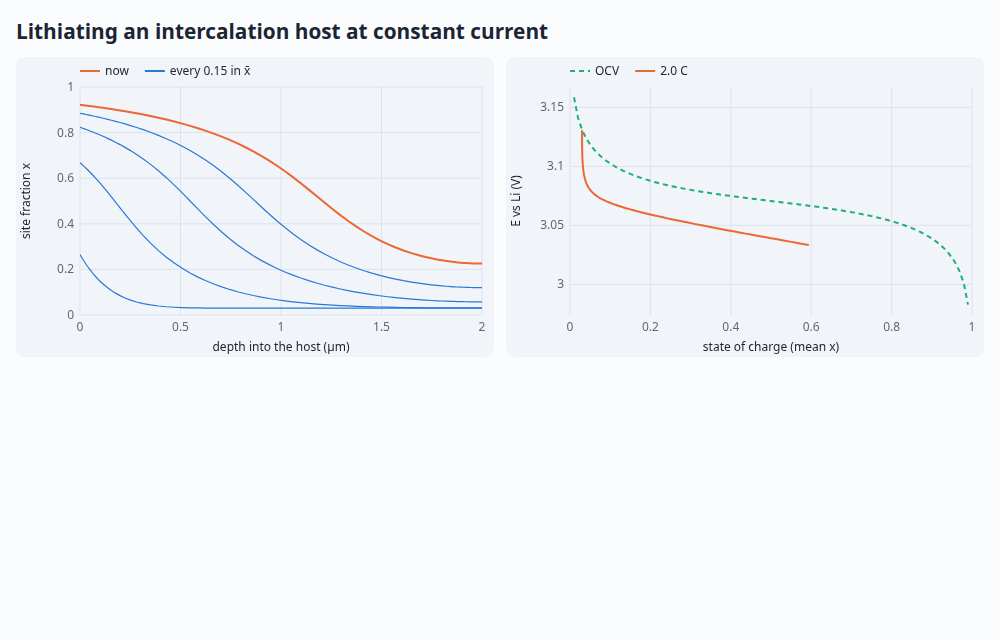
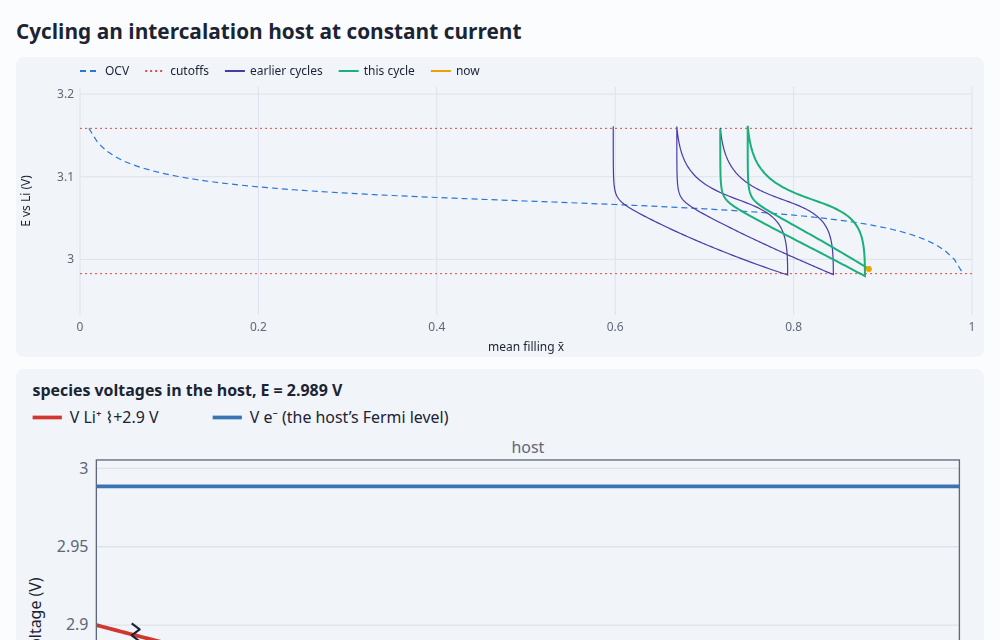
Intercalation demo: galvanostatic cycling between cutoffs that runs on, the settling loop, an ESBD view of Li⁺ and e⁻
Slices adapt to the voltage's rate, so a cutoff is caught within a few mV even where the
surface runs dry.

diff --git a/demos/insertion.html b/demos/insertion.html
@@ -8,35 +8,54 @@
 </head>
 <body>
 <main>
-  <h1>Lithiating an intercalation host at constant current</h1>
-  <p>A 2 µm host layer (strictly neutral, with Li⁺ + e⁻ as one neutral combination) takes Li⁺ from
-    the electrolyte on the left and electrons from a current collector on the right. Its OCV is a
-    regular solution with interaction Ω. The collector's voltage against Li is solved for as the
-    current is held fixed. At high rates, lithium piles up at the surface and the voltage drops early.</p>
+  <h1>Cycling an intercalation host at constant current</h1>
+  <p>A 2 µm host layer (strictly neutral, with Li⁺ + e⁻ as one neutral combination) takes Li⁺ from the
+    electrolyte on the left and electrons from a current collector on the right. Its open-circuit voltage is a
+    regular solution with interaction Ω, which flattens the curve as Ω/RT nears 2, where the host would split
+    into two phases. It's cycled at constant current between voltage cutoffs: filling until the collector
+    falls to the lower cutoff, then emptying until it reaches the upper one, and so on. Slowly, the curves
+    hug the OCV and the host fills and empties almost completely. Faster, lithium piles up at the surface (or
+    drains from it) while the inside lags, the voltage leaves the OCV by more, and a cutoff arrives early.
+    Emptying is the harder direction: lithium diffuses faster through a fuller host (here its chemical
+    diffusivity is D(1/(1−x) − 2xΩ/RT)), so at high rates the surface runs dry long before the host does.
+    Then the mean filling ratchets over several cycles before the loop settles.</p>
+  <p>The level diagram is ESBD-style: the host's electrons (V e⁻, level, since they move easily) and its Li⁺
+    (V Li⁺, sloped wherever lithium diffuses). Their separation at each depth is the local open-circuit
+    voltage, E(x) = V<sub>e⁻</sub> − V<sub>Li⁺</sub>, larger where the host is emptier. Li⁺ is drawn
+    shifted (⌇) to sit beside the electrons. φ has no meaning inside this neutral host, so neither do
+    standard levels.</p>
   <div class="controls">
-    <label>C-rate <input id="rate" type="range" min="0.2" max="10" step="0.1" value="2"><output id="rateOut"></output></label>
+    <label>C-rate <input id="rate" type="range" min="-1" max="1" step="0.1" value="0.3"><output id="rateOut"></output></label>
     <label>Ω/RT <input id="omega" type="range" min="0" max="1.9" step="0.1" value="1.2"><output id="omegaOut"></output></label>
+    <label>playback <select id="pace">
+      <option value="20">slow (20 s a full charge)</option>
+      <option value="6" selected>6 s a full charge</option>
+      <option value="0">as fast as it solves</option>
+    </select></label>
     <button id="run">restart</button>
     <span class="readout" id="status"></span>
   </div>
   <div class="grid">
-    <canvas id="profile"></canvas>
-    <canvas id="voltage"></canvas>
+    <canvas class="wide" id="voltage"></canvas>
+    <div class="levels wide" id="levels"></div>
+    <div class="levels wide" id="profile"></div>
   </div>
 </main>
 <script type="module">
 import { Device, FARADAY, GAS_CONSTANT } from '../src/index.js';
-import { build, layer } from '../src/kit.js';
+import { build, layer, traces } from '../src/kit.js';
+import { levelChart } from '../src/plot.js';
 import { chart, colors } from './plot.js';
-import { showCode, fromQuery } from './common.js';
+import { profiles, showCode, fromQuery } from './common.js';
 
 const RT = GAS_CONSTANT * 298.15, cMax = 20000, L = 2e-6, mu0 = -293.3e3, x0 = 0.03;
 const Q = FARADAY * cMax * L; // capacity, C/m²
 const rate = document.getElementById('rate'), omega = document.getElementById('omega');
 fromQuery(rate);
 fromQuery(omega);
+const C = () => 10 ** +rate.value; // C-rate: 1 C fills the host in an hour
 const labels = () => {
-  document.getElementById('rateOut').textContent = `${(+rate.value).toFixed(1)} C`;
+  document.getElementById('rateOut').textContent = `${C() < 1 ? C().toFixed(2) : C().toFixed(1)} C`;
   document.getElementById('omegaOut').textContent = (+omega.value).toFixed(1);
 };
 rate.addEventListener('input', labels);
@@ -46,10 +65,9 @@ labels();
 // OCV against Li metal (μ_Li = 0), dilute-referenced regular solution: see docs/statistics.md.
 const E = (x, Om) => -(mu0 + RT * Math.log(x / (1 - x)) - 2 * Om * x) / FARADAY;
 
-let dev, profiles, curve, running = false, I;
+let dev, run, running = false;
 function start() {
-  const Om = +omega.value * RT;
-  I = (+rate.value * Q) / 3600;
+  const Om = +omega.value * RT, I = (C() * Q) / 3600;
   dev = new Device(
     build({
       species: [{ name: 'Li+', z: 1 }, { name: 'e-', z: -1 }],
@@ -71,63 +89,98 @@ function start() {
     }),
   );
   dev.solve();
-  dev.set({ contacts: { right: { V: undefined, I: -I } } }); // electrons in from the right, Li⁺ from the left
-  profiles = [];
-  last = undefined;
-  curve = { x: [], V: [], ocv: [] };
-  for (let k = 1; k < 100; k++) {
-    curve.ocv.push([k / 100, E(k / 100, Om)]);
-  }
-  nextProfile = 0;
-  // ?x=0.6 runs ahead to that state of charge first (for sharing a state, or a screenshot).
-  const ahead = +new URLSearchParams(location.search).get('x');
-  while (ahead > 0 && !(last?.done) && (last?.soc ?? 0) < ahead) slice(Infinity);
+  // Filling first: a terminal's I is the current into the device there, so −I at the collector
+  // (electrons in), with Li⁺ coming in from the left.
+  dev.set({ contacts: { right: { V: undefined, I: -I } } });
+  // The cutoffs: the OCV at 1% and 99% full.
+  run = { I, sign: -1, cutoffs: [E(0.99, Om), E(0.01, Om)], ocv: [], x: [], V: [], q: x0 * Q, turns: [0], halves: 0, range: [Infinity, -Infinity] };
+  for (let k = 1; k < 100; k++) run.ocv.push([k / 100, E(k / 100, Om)]);
+  // ?t=… runs ahead to that time first (for sharing a state, or a screenshot).
+  const ahead = +new URLSearchParams(location.search).get('t');
+  while (ahead > dev.solver.time && slice(ahead - dev.solver.time, Infinity).converged);
+  lastFrame = undefined;
   if (!running) requestAnimationFrame(frame);
   running = true;
 }
-let nextProfile = 0, last;
-// Advance by one slice of the run (at most budgetMs of compute), recording the curve and profiles.
-function slice(budgetMs) {
-  const tEnd = ((0.97 - x0) * Q) / I;
-  const s = dev.advance(Math.min(tEnd, dev.solver.time + tEnd / 60), { budgetMs });
-  s.trace.t.forEach((t, k) => {
-    curve.x.push(x0 + (I * t) / Q);
-    curve.V.push(s.trace.voltage[k]);
-  });
-  const soc = x0 + (I * s.time) / Q;
-  if (soc >= nextProfile) {
-    profiles.push({ x: s.x, y: Array.from(s.c['Li+'], (c) => c / cMax) });
-    nextProfile += 0.15;
-  }
-  last = { s, soc, done: s.time >= tEnd };
-  return last;
-}
-function draw() {
-  const { s, soc } = last;
-  chart(document.getElementById('profile'), {
-    xscale: 1e6, xlabel: 'depth into the host (µm)', ylabel: 'site fraction x', ylim: [0, 1],
-    series: [
-      ...profiles.map((p) => ({ ...p, color: colors[0], width: 1.2 })),
-      { x: s.x, y: Array.from(s.c['Li+'], (c) => c / cMax), color: colors[1], label: 'now' },
-      { x: [], y: [], color: colors[0], label: 'every 0.15 in x̄' },
-    ],
-  });
-  chart(document.getElementById('voltage'), {
-    xlabel: 'state of charge (mean x)', ylabel: 'E vs Li (V)', xlim: [0, 1],
-    series: [
-      { x: curve.ocv.map((p) => p[0]), y: curve.ocv.map((p) => p[1]), color: colors[2], dash: [5, 4], label: 'OCV' },
-      { x: curve.x, y: curve.V, color: colors[1], label: `${(+rate.value).toFixed(1)} C` },
-    ],
-  });
-  document.getElementById('status').textContent = `x̄ = ${soc.toFixed(3)} · E = ${s.terminalVoltage.toFixed(3)} V`;
-}
-function frame() {
-  const { done } = slice(12);
-  draw();
-  if (!done) requestAnimationFrame(frame);
+
+// Playback: a full charge's worth of time over a chosen wall-clock time, in slices short enough
+// to catch each cutoff; "as fast as it solves" advances as far as 12 ms of computing allows.
+const pace = document.getElementById('pace');
+fromQuery(pace);
+let lastFrame;
+function frame(now = performance.now()) {
+  const wall = Math.min(0.1, (now - (lastFrame ?? now)) / 1000);
+  lastFrame = now;
+  const perCharge = +pace.value; // wall-clock seconds to fill the host
+  const s = slice(perCharge > 0 ? (wall * Q) / run.I / perCharge : Infinity, 12);
+  draw(s);
+  if (s.converged) requestAnimationFrame(frame);
   else running = false;
 }
+
+// One slice of the run, at most dt long: record the curve, and reverse at a cutoff.
+function slice(dt, budgetMs) {
+  // Short enough to catch a cutoff: the voltage diverges as the surface fills or runs dry, so a
+  // slice moves it by at most about 5 mV, judging by the last one.
+  const t0 = dev.solver.time;
+  const s = dev.advance(t0 + Math.min(Q / run.I / 150, run.dtE ?? Infinity, dt), { budgetMs });
+  let t = run.t ?? 0;
+  s.trace.t.forEach((tk, k) => {
+    run.q += s.trace.current[k] * (tk - t); // the current toward +x: Li⁺ in from the electrolyte
+    t = tk;
+    run.x.push(run.q / Q);
+    run.V.push(s.trace.voltage[k]);
+  });
+  run.t = t;
+  const Ev = s.terminalVoltage, [low, high] = run.cutoffs;
+  const rate = Math.abs(Ev - (run.E ?? Ev)) / Math.max(s.time - t0, 1e-12);
+  run.E = Ev;
+  run.dtE = rate > 0 ? 0.005 / rate : Infinity;
+  if ((run.sign < 0 && Ev <= low) || (run.sign > 0 && Ev >= high)) {
+    run.sign = -run.sign;
+    run.halves++;
+    run.turns.push(run.x.length);
+    dev.set({ contacts: { right: { I: run.sign * run.I } } });
+    run.dtE = Infinity;
+    // Keep the last three cycles (six half-cycles).
+    if (run.turns.length > 7) {
+      const drop = run.turns[run.turns.length - 7];
+      run.x.splice(0, drop);
+      run.V.splice(0, drop);
+      run.turns = run.turns.slice(-7).map((k) => k - drop);
+    }
+  }
+  return s;
+}
+
+function draw(s) {
+  const split = run.turns.length > 2 ? run.turns.at(-3) : 0; // the current cycle: the last two half-cycles
+  document.getElementById('status').textContent =
+    `cycle ${Math.floor(run.halves / 2) + 1}, ${run.sign < 0 ? 'filling' : 'emptying'} · x̄ = ${(run.q / Q).toFixed(3)} · E = ${s.terminalVoltage.toFixed(3)} V`;
+  const [low, high] = run.cutoffs;
+  chart(document.getElementById('voltage'), {
+    xlabel: 'mean filling x̄', ylabel: 'E vs Li (V)', xlim: [0, 1], ylim: [low - 0.05, high + 0.05],
+    series: [
+      { x: run.ocv.map((p) => p[0]), y: run.ocv.map((p) => p[1]), color: colors[0], dash: [6, 4], width: 1.2, label: 'OCV' },
+      { x: [0, 1, NaN, 0, 1], y: [low, low, NaN, high, high], color: colors[7], dash: [2, 3], width: 1, label: 'cutoffs' },
+      { x: run.x.slice(0, split + 1), y: run.V.slice(0, split + 1), color: colors[6], width: 1.2, label: 'earlier cycles' },
+      { x: run.x.slice(split), y: run.V.slice(split), color: colors[2], label: 'this cycle' },
+      { x: [run.q / Q], y: [s.terminalVoltage], color: colors[3], marker: true, width: 0, label: 'now' },
+    ],
+  });
+  // The ESBD view: Li⁺ shifted up 2.9 V to sit beside the electrons; the range grows to hold what the
+  // run has shown.
+  const tr = traces(s, { shifts: { 'Li+': 2.9 }, labels: { 'V:e-': 'V e⁻ (the host’s Fermi level)' } });
+  for (const line of tr.series) for (const y of line.y) if (Number.isFinite(y)) run.range = [Math.min(run.range[0], y), Math.max(run.range[1], y)];
+  const span = run.range[1] - run.range[0];
+  document.getElementById('levels').innerHTML = levelChart(tr, {
+    width: 720, height: 340, range: [run.range[0] - 0.2 * span, run.range[1] + 0.06 * span], // room for the ⌇ note
+    title: `species voltages in the host, E = ${s.terminalVoltage.toFixed(3)} V`,
+  });
+  profiles(document.getElementById('profile'), s, { species: ['Li+'], labels: { 'Li+': 'x = c Li⁺ / c_max' }, title: 'filling across the host', ylabel: 'site fraction x', scale: 1 / cMax, range: [0, 1] });
+}
 document.getElementById('run').addEventListener('click', start);
+for (const el of [rate, omega]) el.addEventListener('change', start);
 start();
 showCode();
 </script>

diff --git a/demos/index.html b/demos/index.html
@@ -31,7 +31,7 @@
   <div class="cards">
     <a class="card" href="membrane.html"><img src="screenshots/membrane.png" alt="ion-exchange membrane"><div><b>Ion-exchange membrane</b><span>Donnan exclusion and permselectivity, ion by ion, against Teorell–Meyer–Sievers theory; unstirred layers.</span></div></a>
     <a class="card" href="double-layer.html"><img src="screenshots/double-layer.png" alt="double layer"><div><b>Double layer</b><span>Ideal against crowded (lattice-gas) ions at a blocking electrode, each against its closed-form theory; ion by ion.</span></div></a>
-    <a class="card" href="insertion.html"><img src="screenshots/insertion.png" alt="intercalation host"><div><b>Intercalation host</b><span>Lithiation at constant current against a regular-solution OCV.</span></div></a>
+    <a class="card" href="insertion.html"><img src="screenshots/insertion.png" alt="intercalation host"><div><b>Intercalation host</b><span>Galvanostatic cycling between cutoffs: the loop settling against a regular-solution OCV, Li⁺ and e⁻ level by level.</span></div></a>
   </div>
 </main>
 </body>
